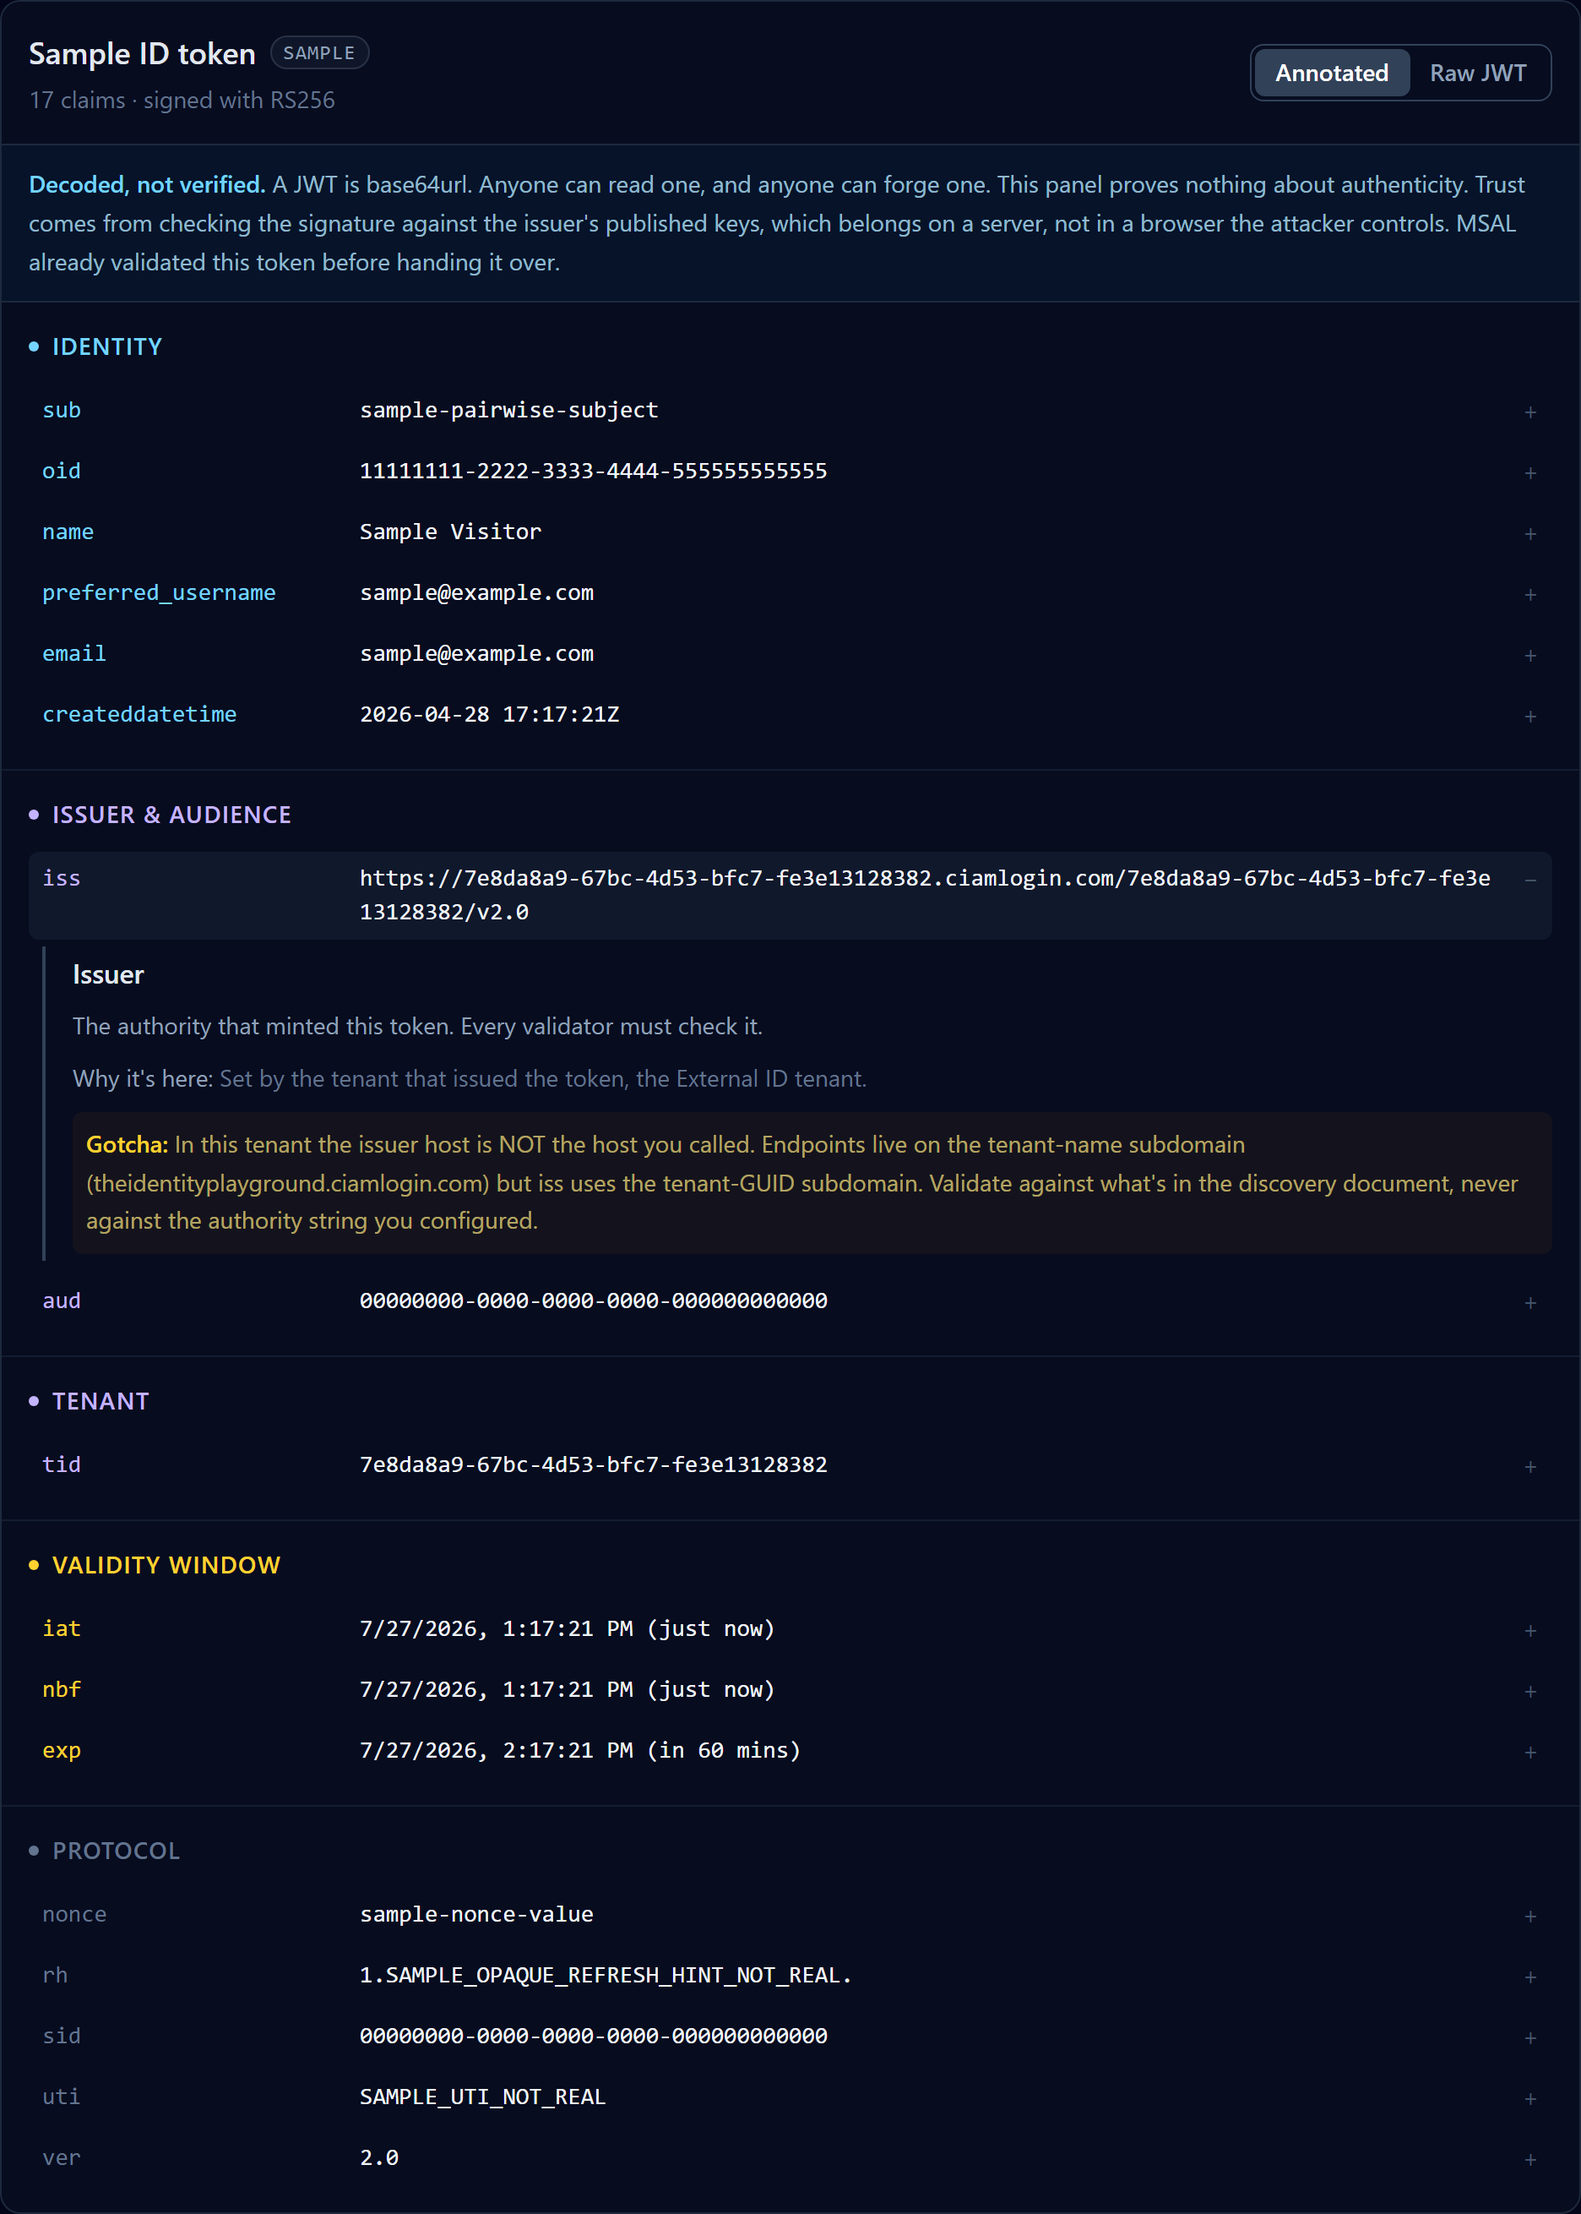
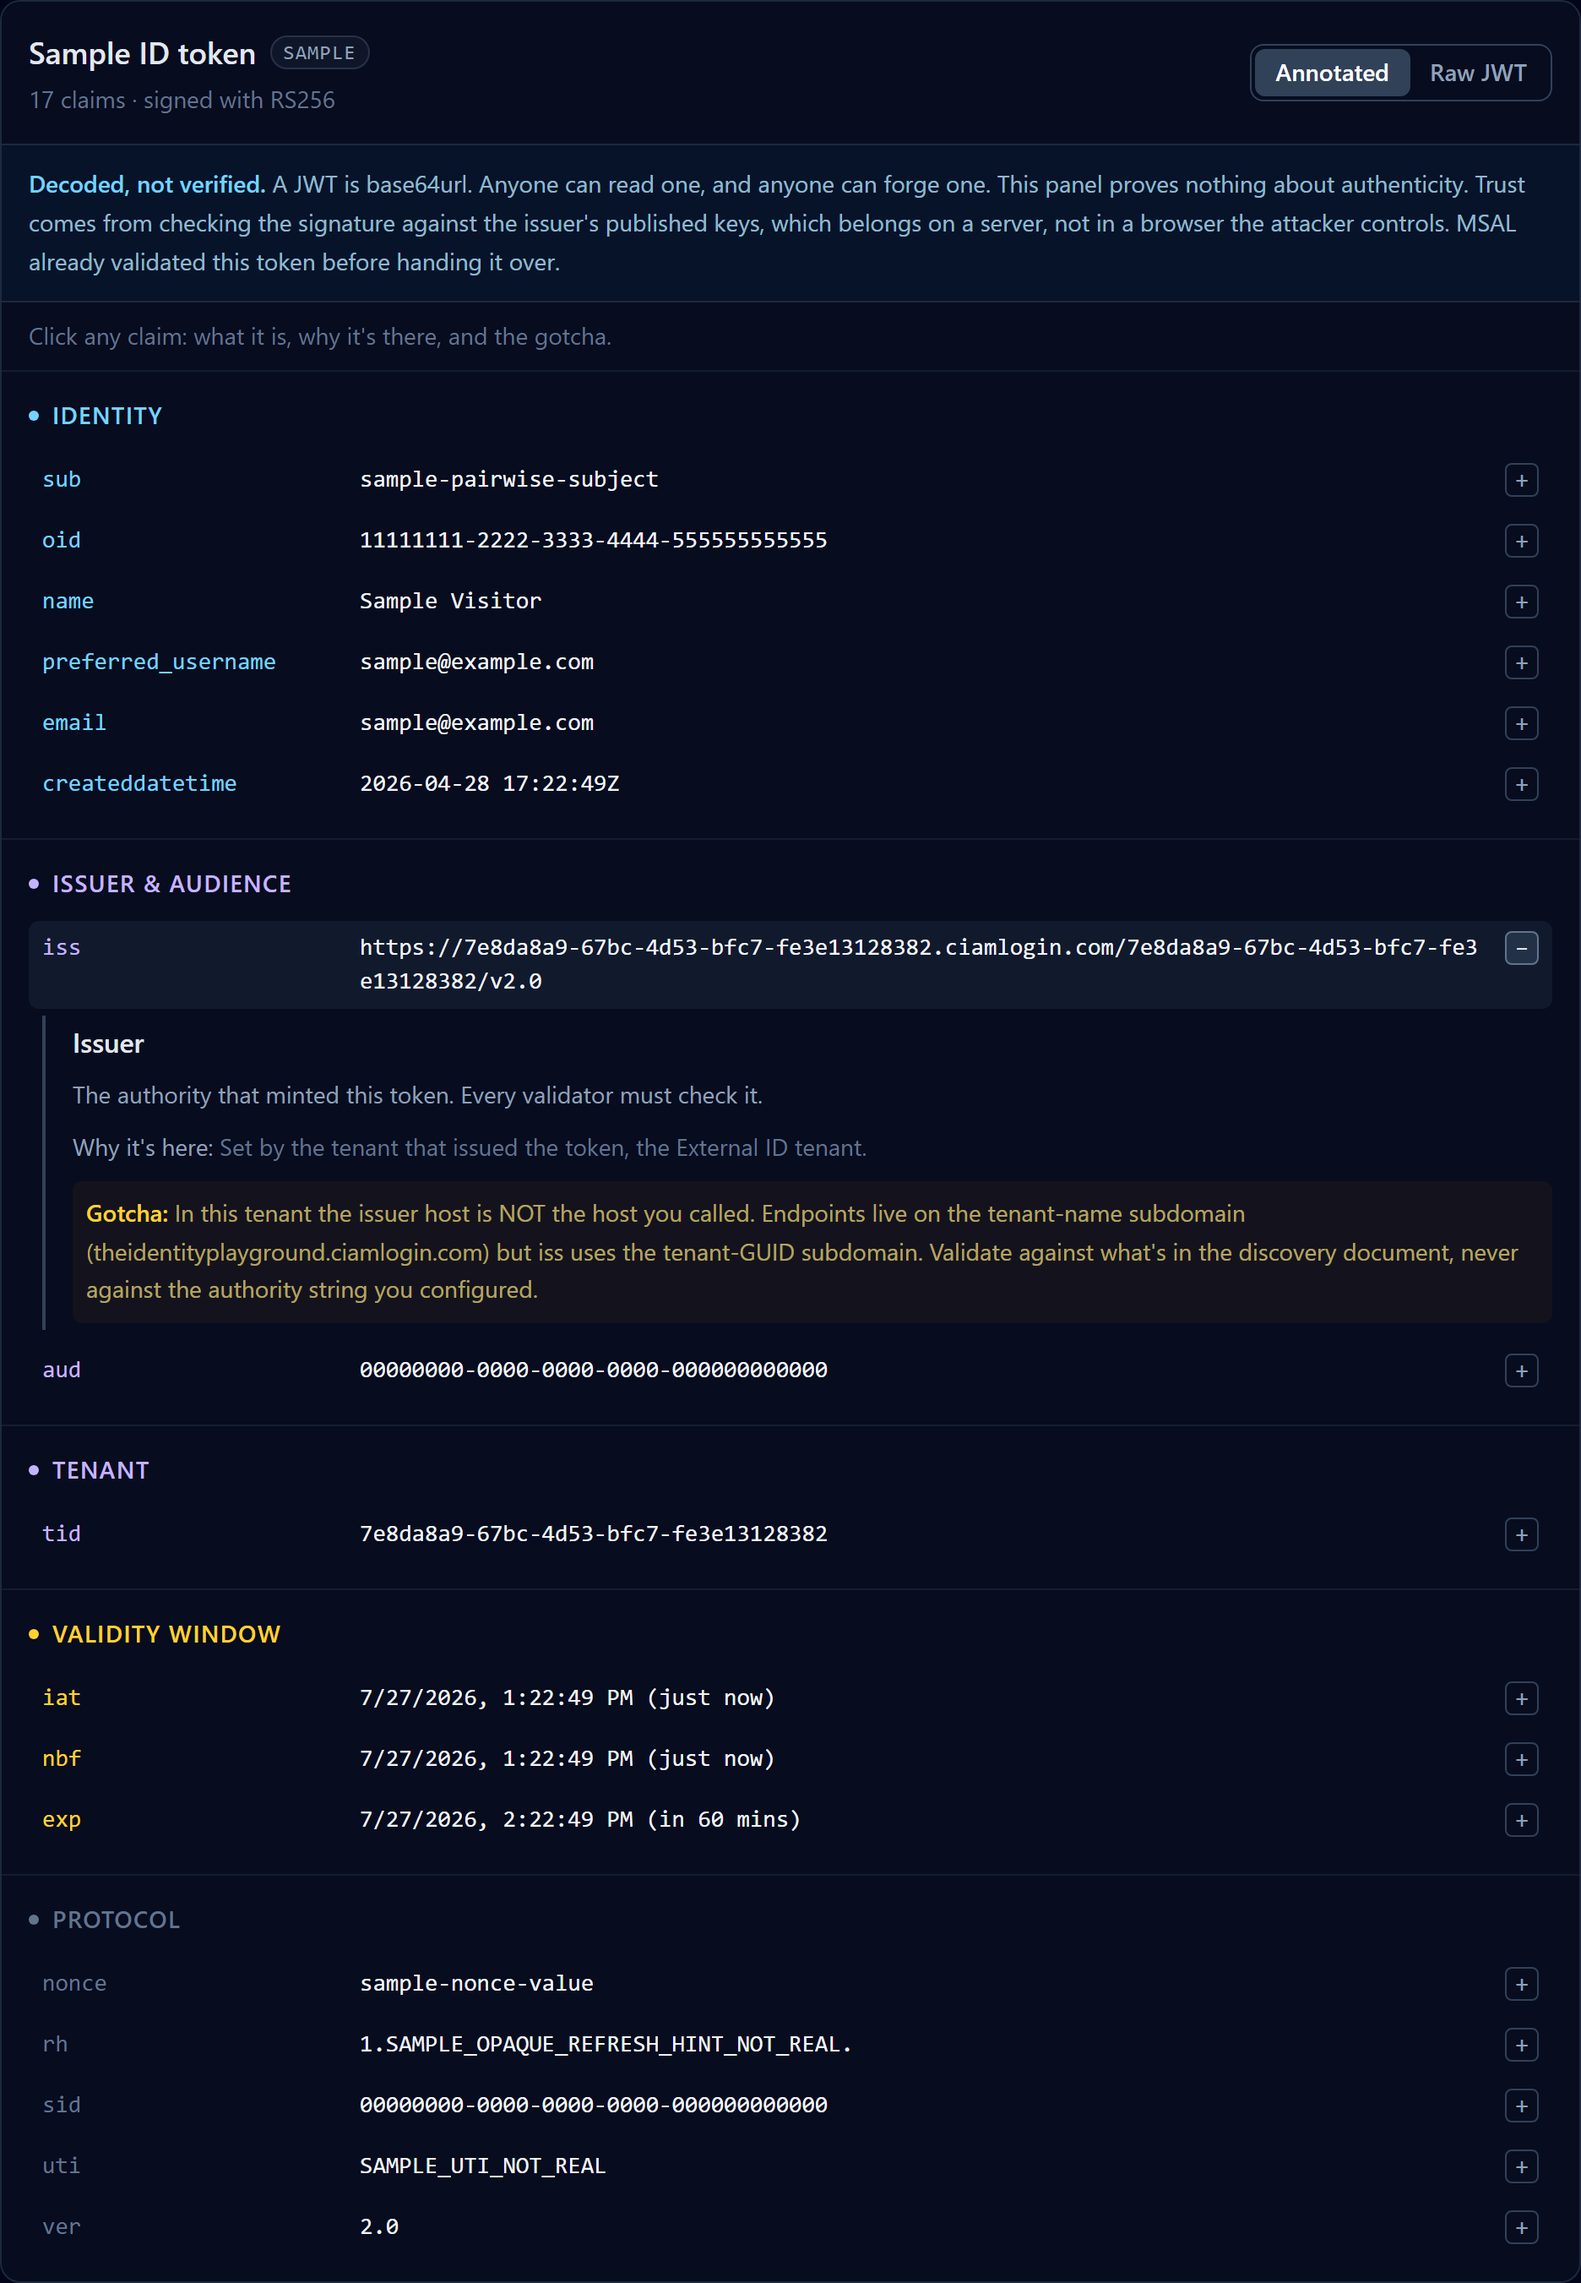
Make the token inspector's expand affordance carry itself
The +/- glyph was text-slate-600 against the card, which made it invisible in a
screenshot and near-invisible on the page. The only other signal that a claim row
opens was a hover state, and hover does not exist on a phone. Every row expands
into what the claim is, why it is in the token, and the gotcha. That IS Module 1,
so a visitor who never discovers it has seen a JWT decoder.

Boxed and brightened, plus one line above the list saying the rows open. A bare
glyph reads as decoration; a bordered one reads as a control. Still regenerated
against the dev server and inspected.

Also amends the Module 6 privacy rule for the re-pointed scroll. Not relaxed:
appId filter first so the operator's own portal sign-ins never enter the
pipeline, then an explicit field allowlist built server-side. Allowlist rather
than denylist, because a denylist fails open the moment Microsoft adds a field.

diff --git a/web/src/components/TokenInspector.tsx b/web/src/components/TokenInspector.tsx
@@ -201,6 +201,13 @@ export function TokenInspector({ token, label = 'ID token', live = false }: Prop
         // are long GUIDs that don't lay out flat, so the honest shape is a
         // scrollable reference column, not a squeezed grid.
         <div className="divide-y divide-slate-800/60">
+          {/* Said out loud, because the glyph alone was not enough. A visitor who
+              scrolls this panel and never clicks has read a decoder; the whole
+              point is what sits underneath each row. One line, no theatre, and it
+              names the three things an annotation actually contains. */}
+          <p className="px-4 py-2.5 text-sm text-slate-500">
+            Click any claim: what it is, why it's there, and the gotcha.
+          </p>
           {CATEGORY_ORDER.filter((c) => grouped.has(c)).map((category) => (
             <div key={category} className="p-4">
               <h3
@@ -294,7 +301,21 @@ function ClaimRow({
         <span className={`min-w-0 flex-1 break-all font-mono text-sm ${VALUE_COLOR}`}>
           {timeStr ?? formatClaimValue(value)}
         </span>
-        <span className="shrink-0 text-sm text-slate-600" aria-hidden="true">
+        {/* The affordance, and it has to carry itself. At slate-600 this glyph was
+            invisible in a screenshot and near-invisible on the page, so the only
+            thing telling a visitor these rows open was a hover state — which does
+            not exist on a phone, and a recruiter opens this on a phone. The
+            annotations ARE Module 1, so a visitor who never discovers them has
+            seen a JWT decoder. Boxed and brightened: a bare glyph reads as
+            decoration, a bordered one reads as a control. */}
+        <span
+          className={`grid h-5 w-5 shrink-0 place-items-center rounded border font-mono text-sm leading-none transition ${
+            isExpanded
+              ? 'border-slate-500 bg-slate-700/60 text-slate-200'
+              : 'border-slate-700 text-slate-400'
+          }`}
+          aria-hidden="true"
+        >
           {isExpanded ? '−' : '+'}
         </span>
       </button>

diff --git a/identity-playground-spec.md b/identity-playground-spec.md
@@ -327,11 +327,8 @@ Ordered by build sequence, not homepage order. Each lists: experience, what it p
 > external tenant serves the log over Graph v1.0 with no premium gate, and the cross-tenant
 > credential path is built.
 >
-> **OPEN, and it is a security question, so it needs Steve rather than a quiet edit:** the
-> privacy rule at the end of this section says everyone else's activity is *aggregate-only*.
-> A scroll of stripped rows is more than aggregate. Stripped rows carry no identifier, so the
-> rule's intent may already be satisfied — but the letter of it is not, and this section is
-> the one place that rule is written down. Resolve it in the ADR, not in code.
+> The privacy rule at the end of this section is **amended, not relaxed** (Steve, 27 July) to
+> cover a scroll that shows other visitors' rows. See "Privacy rule" below.
 >
 > Owner of the detail: [notes/next-build.md](notes/next-build.md). An ADR is owed.
 
@@ -350,6 +347,16 @@ Ordered by build sequence, not homepage order. Each lists: experience, what it p
 **Privacy rule — filter server-side, by the caller's own `oid`, always.** The API must never return another visitor's log entry to the browser under any circumstance, including "we mask it in the UI." Fetch-all-then-filter-client-side is not acceptable here: the unmasked rows are in the response body, one devtools tab away. The correlation must happen in the Function, scoped to the authenticated caller's `oid`, and only their own rows may leave the backend. Everyone else's activity is aggregate-only (counts, method types, policy names — never identifiers).
 
 Worth over-engineering: leaking visitor A's sign-in to visitor B is an ordinary bug on most sites and a credibility-ending one on a site whose entire thesis is that you understand identity.
+
+**AMENDED 27 July 2026 for the scroll.** The rule above was written for a module that showed you only your own row. The re-pointed module shows the site's whole log, so "aggregate-only" no longer describes what ships. What is *not* relaxed: the strip happens server-side, and no identifying field of any visitor but the caller ever reaches the browser. Three rules replace the one sentence:
+
+1. **Filter by `appId` first, before anything else.** Only the site's own client IDs enter the pipeline. The tenant's log also carries the operator's own Azure Portal and Graph sign-ins, and those must never be candidates for display, stripped or not. Their *pattern* is the leak, not their fields.
+2. **Other visitors' rows are reduced to an allowlist, in the Function, before the response is built.** Permitted: `createdDateTime`, `appDisplayName`, `clientAppUsed`, `isInteractive`, `conditionalAccessStatus`, `appliedConditionalAccessPolicies`, `status.errorCode`, `status.failureReason`, and the parsed `deviceDetail.browser` / `deviceDetail.operatingSystem`. Everything else is dropped, including `ipAddress`, every `location` field, `userPrincipalName`, `userDisplayName`, `userId`, `userAgent`, `correlationId`, `id`, and `deviceDetail.deviceId` / `displayName`.
+3. **Allowlist, never denylist.** A denylist fails open: Microsoft adds a field to the `signIn` resource and it ships to the browser without anyone deciding it should. Construct the response object field by field from what is permitted. Never `delete` keys off the Graph response and forward the remainder.
+
+The caller's own row is the one exception and keeps the original rule exactly: matched server-side on their `oid`, full detail, and only theirs.
+
+A real personal email address (`tlhenkel@gmail.com`) was sitting in this log on 23 July. This is not hypothetical.
 
 ---
 
